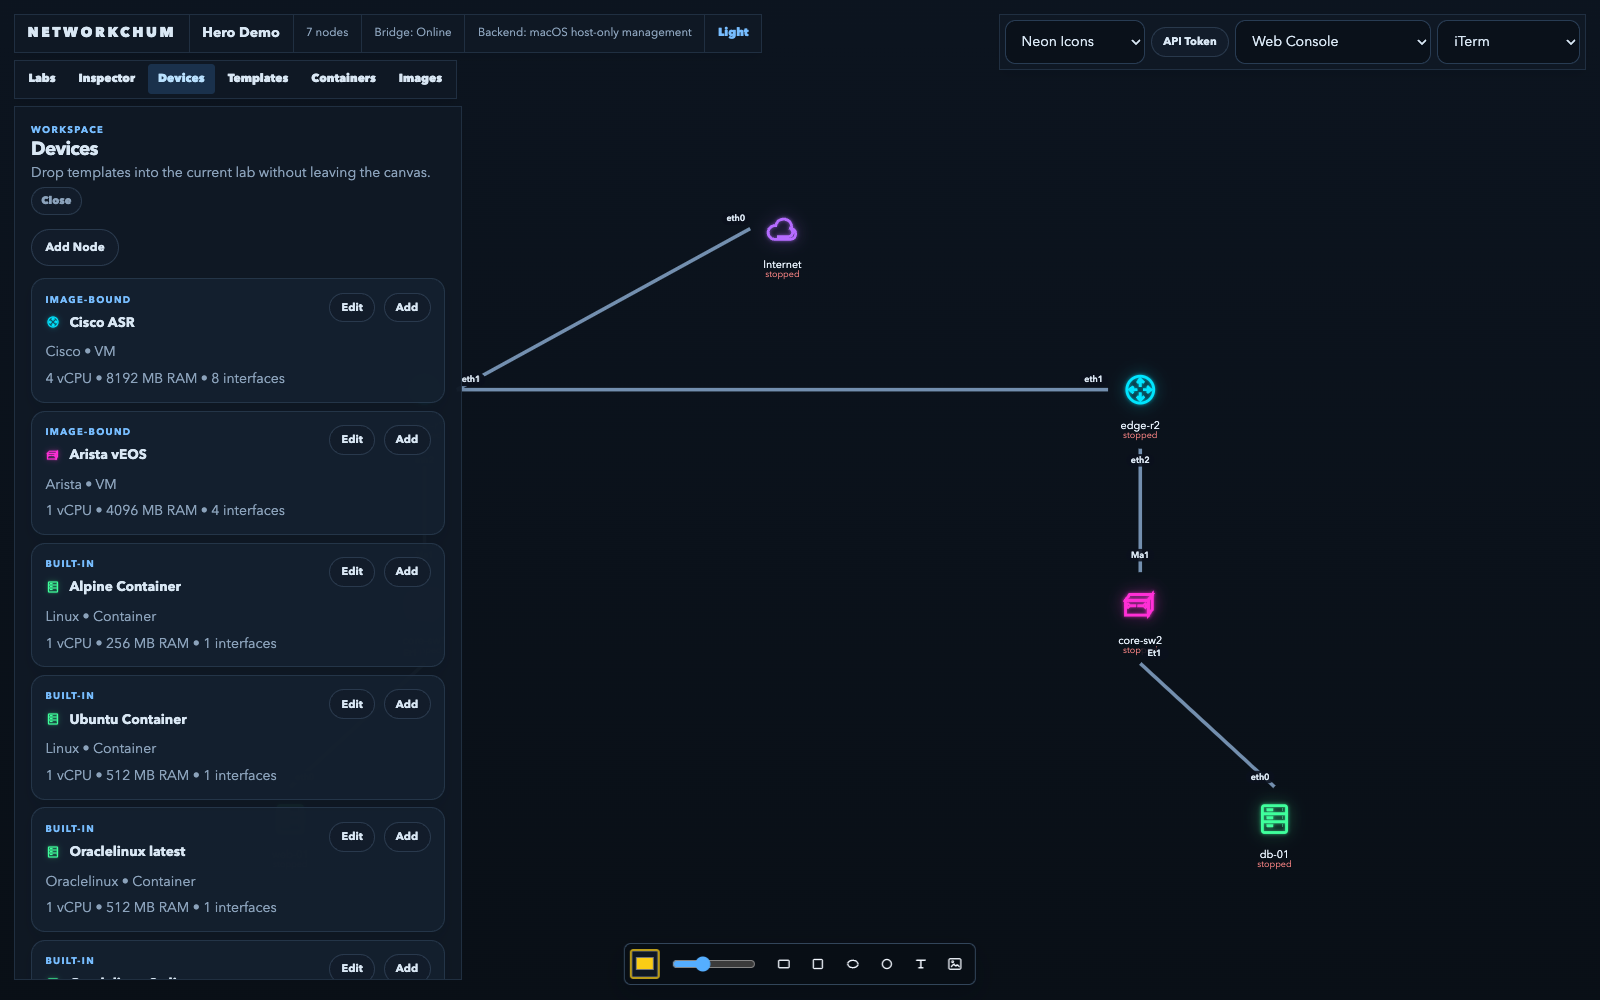
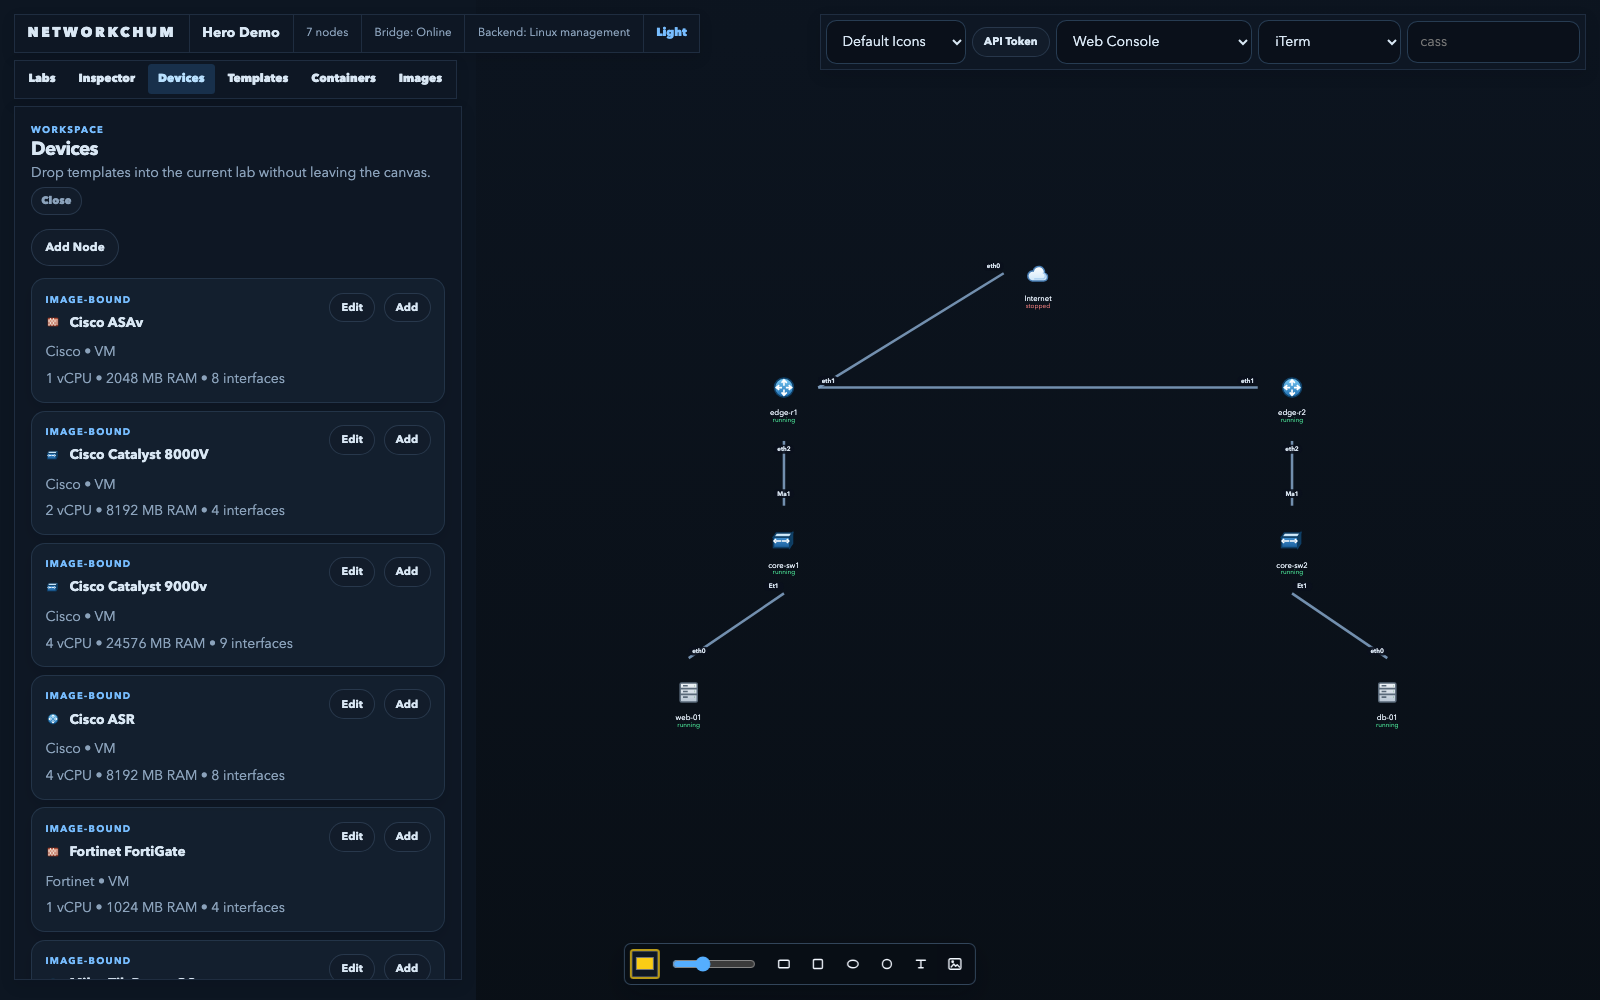
docs: refresh screenshots from the live Linux install

diff --git a/docs/index.html b/docs/index.html
@@ -192,6 +192,8 @@
   <div class="grid" style="margin-top:28px">
     <div class="shot"><img src="screenshots/devices.png" alt="Device catalog panel with Cisco ASR, Arista vEOS and container templates" /></div>
     <div class="shot"><img src="screenshots/hero.png" alt="Topology canvas with a branch office lab" /></div>
+    <div class="shot"><img src="screenshots/templates.png" alt="Built-in device templates with editable CPU, RAM and interface limits" /></div>
+    <div class="shot"><img src="screenshots/console.png" alt="Browser serial console running show version on a Cisco IOS XE router" /></div>
   </div>
 </section>
 

diff --git a/README.md b/README.md
@@ -23,14 +23,27 @@ The project is aimed at an EVE-NG / PNETLab style workflow, but with a JSON-nati
 
 ## Screenshots and demo
 
-![AI Lab Builder preview](docs/screenshots/ai-builder.png)
-
-The AI builder turns a prompt into a validated lab: routers, switches, hosts and
-links, with day-0 configs for the platforms that support them.
+All screenshots are from a single Linux install: the lab's routers and switches
+boot with KVM, and the hosts are container nodes.
 
 ![Device catalog](docs/screenshots/devices.png)
 
 Device catalog with image bindings and per-template resource limits.
+
+![Built-in templates](docs/screenshots/templates.png)
+
+Built-in templates for Cisco, Arista, Juniper, Fortinet, MikroTik and Linux
+platforms, each with editable CPU, RAM and interface limits.
+
+![Browser serial console](docs/screenshots/console.png)
+
+A serial console into a running Cisco IOS XE router — no client pack, no local
+terminal app required.
+
+![AI Lab Builder preview](docs/screenshots/ai-builder.png)
+
+The AI builder turns a prompt into a validated lab: routers, switches, hosts and
+links, with day-0 configs for the platforms that support them.
 
 [![Demo: open a lab, generate a branch office, create it](docs/screenshots/demo.gif)](docs/screenshots/demo.mp4)
 
